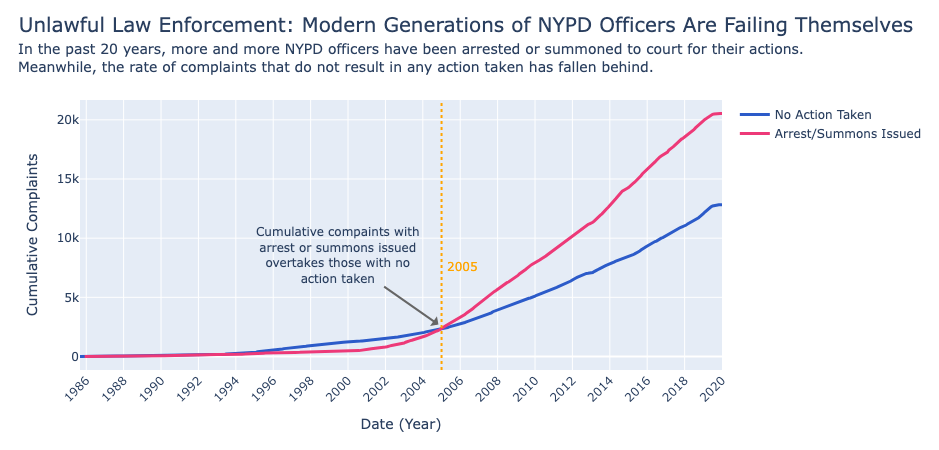
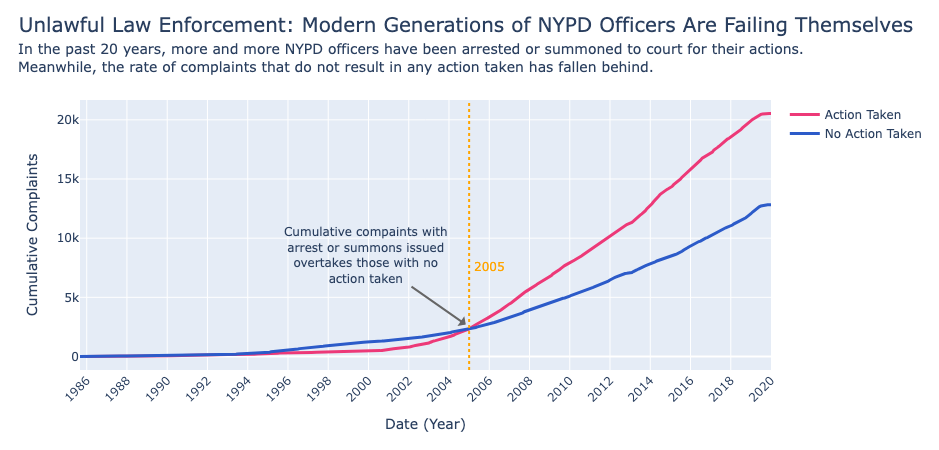
Updated plots and added final reflection

Changed region(s): [[0.0618, 0.2178, 0.9883, 0.9022], [0.3706, 0.9333, 0.4941, 0.9644]]

diff --git a/index.html b/index.html
@@ -160,8 +160,8 @@
         <figure>
           <img src="imgs/figure1.png" alt="A line plot that shows rates of officer substantiations over the years." />
           <figcaption>This plot shows that complaints resulting in officer substantiations and those not resulting 
-            in substantiations have grown at similar rates over time. The "Not Substantiated" line consistently stays 
-            above the "Substantiated" line, and the gap between them remains roughly proportional throughout.</figcaption>
+            in substantiations have grown at similar rates over time. The "No Action Taken" line consistently stays 
+            above the "Action Taken" line, and the gap between them remains roughly proportional throughout.</figcaption>
         </figure>
 
         <p>Design Decisions and Rationale:</p>
@@ -172,11 +172,11 @@
             description of the plot in the description. I would rate this decision's earnestness as 1.5.</li>
           <li>Annotations: I really wanted this visualization to agree with the proposition's point that both lines 
             grow proportional to each other, so I emphasized the proportional growth with orange arrows, which show 
-            the scalar by which you can multiply the value at the red line to reach the value at the blue line. 
-            Additionally, I added text which restates that both complaint types accumulate proportionally to each 
-            other. I would rate this decision's earnestness as 2.</li>
+            the scalar by which you can multiply the value at the "Action Taken" line to reach the value at the "No 
+            Action Taken" line. Additionally, I added text which restates that both complaint types accumulate 
+            proportionally to each other. I would rate this decision's earnestness as 2.</li>
           <li>Color: I chose colors that would stand out from each other and be unique. The blue color for the 
-            "Not Substantiated" line is a calm and neutral color, while the red color for the "Substantiated" line
+            "No Action Taken" line is a calm and neutral color, while the red color for the "Action Taken" line
             is a more aggressive color. I chose the arrows to be orange, as orange is distinguishable from both 
             blue and red, and clearly emphasizes the proportionality between the two lines. I would rate this decision's
             earnestness as 2.</li>
@@ -195,11 +195,14 @@
         <p>Design Decisions and Rationale:</p>
 
         <ul>
-          <li>Grouping and aggregation: I created the "No Action Taken" and "Arrest/Summons Issued" categories by grouping
-            similar values together for each category. For example, values in the "Arrest/Summons Issued" category include
-            arrests of any kind, as well as summons of any kind. This makes the category of NYPD officers who have done wrongdoing
-            look larger than it would be if I had separated the arrests and summons into two separate categories. I would rate this decision's
-            earnestness as -1.</li>
+          <li>Grouping and aggregation: I created the "No Action Taken" and "Action Taken" categories by grouping
+            similar values together for each category. For example, values in the "Action Taken" category include
+            arrests of any kind, as well as summons of any kind. This makes the category of NYPD officers who have 
+            done wrongdoing look larger than it would be if I had separated the arrests and summons into two separate 
+            categories. I have also been intentionally vague in naming the "Action Taken" category, and I avoided using
+            the words "arrests" or "summons issued" to make this plot have the same labels as the above persuasive plot.
+            This forces the reader to read more closely to identify that the "Action Taken" category encompasses arrests
+            and court summons, as described in the description of the plot. I would rate this decision's earnestness as -1.5.</li>
           </li>
           <li>Title and description: I made sure to use negative language in my title to persuade the reader that more
             recent years have seen a greater number of NYPD officers being punished for their actions. Using the phrase
@@ -210,7 +213,7 @@
           </li>
           <li>Annotations: I wanted to emphasize that modern generations of officers have been more problematic than
             officers of past years, so I annotated the plot with an orange line at the year 2005, which is when the
-            "Arrest/Summons Issued" line overtakes the "No Action Taken" line. I also added an arrow and text annotation
+            "Action Taken" line overtakes the "No Action Taken" line. I also added an arrow and text annotation
             to make this point clear. The orange line serves a "divisor" between the older and newer years, and makes it 
             easy to see that both lines have clearly not been growing proportionally to each other. I would rate this decision's
             earnestness as 1.5.</li>
@@ -221,7 +224,41 @@
       <section>
         <h2>Final Reflection</h2>
 
-        <p>[WRITE FINAL REFLECTION PARAGRAPHS HERE.]</p>
+        <p>Designing both visualizations was both easier and harder than I had expected. I had a clear vision of what 
+          I wanted both visualizations to argue for, but I encountered difficulty in finding deceptive techniques I could
+          use in my plot against the proposition. I wanted to make both visualizations look very similar to each other so 
+          that it would not be immediately obvious to the reader what the deceptive technique was. This is why I used the same
+          colors for each plot, as well as the same axes and labels. This makes the plots look very similar to each other, even
+          though they are arguing for different sides of the proposition, forcing the reader to look more closely at the plots
+          to identify the differences, which can be found detailed in the description of the plots. The labels "Action Taken" and 
+          "No Action Taken" are the same for both plots and are intentionally vague, as I wanted to use the same labels for both 
+          plots despite both plots conveying different meanings. "Action Taken" and "No Action Taken" are broad, general terms that 
+          still correctly describe the data, but do not give the reader the full picture of what the data is actually showing. 
+          <br>
+          <br>
+          I was surprised by how different conclusions could be drawn depending on which columns of the data were shown, and how
+          data was grouped. In my visualization for the proposition, I used the "board_disposition" column, grouping data based on
+          whether or not values contain the string "substantiated". Similarly, in my visualization against the proposition, I used the
+          "outcome_description" column, grouping data based on whether or not values contain the string "arrest" or "summons issued". 
+          After grouping the values for both columns, I had thought that "board_disposition" and "outcome_description" would have roughly 
+          the same distribution of "Action Taken" and "No Action Taken", as I thought substantiations would correspond to an equal amount of
+          arrests and summons issued, and unsubstantiated complaints would correspond to an equal amount of no action taken. However, this is 
+          not the case, as shown by the two visualizations. This taught me that although two columns may seem similar, they can have completely
+          different distributions of values.
+          <br>
+          <br>
+          After making my deceptive visualization, I realized that honesty and clarity are important when analyzing and visualizing
+          data ethically. Using ambiguous labels in data visualizations can trick the reader into interpreting data from a warped perspective,
+          biased depending on what the visualization is arguing for. I have also discovered that language plays a significant role in affecting
+          how a visualization can be viewed, as language with strong connotations can easily sway the reader into agreeing with a visualization's 
+          argument. A bound that I would draw to distinguish acceptable persuasive choices vs. misleading ones is using unambiguous labels that 
+          accurately describe the data, while still using language that is engaging and eye-catching. Using broad terms can hide facts about the data 
+          from the reader, which starts treading into misleading territory. I think transparency in how data is grouped is also another important
+          boundary between acceptable and misleading persuasive choices. Avoiding elaboration on how data is grouped and labeled can lead the reader to 
+          believe that a category of data is bigger or smaller than it actually is, and makes the visualization deceptive. I do not think that it is 
+          necessary for the reader to understand the fine details of the data grouping process, but the reader should be able to understand what kind of 
+          values fall into what category and for what reason.
+        </p>
       </section>
     </main>
   </body>
